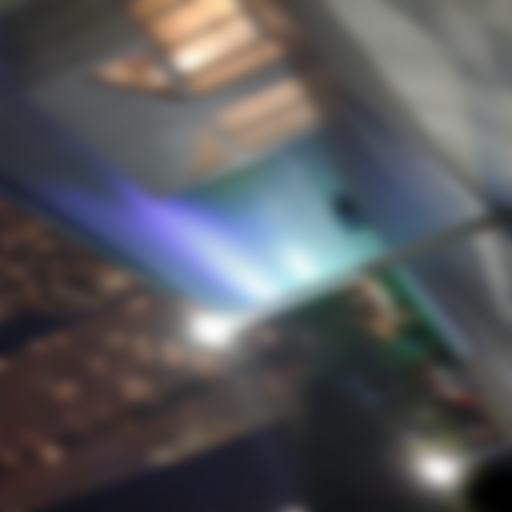
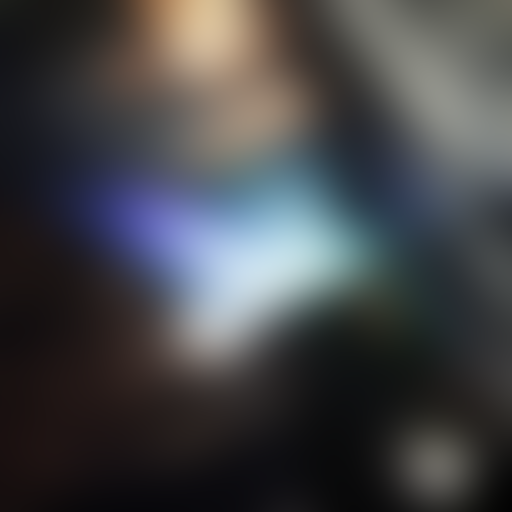
Another new XY palette

diff --git a/src/partner_dance.h b/src/partner_dance.h
@@ -37,31 +37,30 @@ private:
     static const unsigned particlesPerDancer = 30;
     static const unsigned numDancers = 2;
     static const unsigned numParticles = numDancers * particlesPerDancer;
-    static const float stepSize = 1.0 / 200;
+    static const float stepSize = 1.0 / 300;
 
     static const float colorRate = 0.8;
-    static const float noiseRate = 0.1;
-    static const float radius = 0.5;
-    static const float radiusNoiseAmount = 0.2;
-    static const float radiusNoiseRate = 3.0;
-    static const float intensityScale = 60.0;
+    static const float noiseRate = 0.4;
+    static const float radius = 1.2;
+    static const float radiusScale = 0.3;
+    static const float intensityScale = 20.0;
     static const float maxIntensity = 0.4;
-    static const float targetRadius = 0.3;
+    static const float minIntensity = 0.001;
+    static const float targetRadius = 0.5;
     static const float interactionRadius = 0.4;
-    static const float jitterRate = 2.5;
-    static const float jitterStrength = 0.26;
-    static const float jitterScale = 1.2;
-    static const float initialVelocity = 0.02;
+    static const float jitterRate = 0.5;
+    static const float jitterStrength = 0.6;
+    static const float jitterScale = 0.7;
 
     struct ParticleDynamics {
         Vec2 position;
         Vec2 velocity;
-        Vec2 target;
     };
 
     std::vector<ParticleDynamics> dynamics;
     float timeDeltaRemainder;
     float noiseCycle;
+    Vec2 target;
 
     void resetParticle(ParticleDynamics &pd, PRNG &prng, unsigned dancer) const;
     void runStep(const FrameInfo &f);
@@ -78,7 +77,7 @@ inline PartnerDance::PartnerDance()
       timeDeltaRemainder(0)
 {
     // Sky at (0,0), lightness along +X, darkness along +Y. Fire encircles the void at (1,1)
-    palette.load("data/beach-palette.png"),
+    palette.load("data/foggy-bay-palette.png"),
 
     reseed(42);
 }
@@ -99,8 +98,6 @@ inline void PartnerDance::reseed(uint32_t seed)
     for (unsigned dancer = 0; dancer < numDancers; dancer++) {
         for (unsigned i = 0; i < particlesPerDancer; i++, pa++, pd++) {
 
-            pd->target = Vec2(0,0);
-
             resetParticle(*pd, prng, dancer);
 
             pa->color = dancer ? Vec3(1, 0, 0) : Vec3(0, 1, 0);
@@ -117,8 +114,16 @@ inline void PartnerDance::beginFrame(const FrameInfo &f)
     int steps = t / stepSize;
     timeDeltaRemainder = t - steps * stepSize;
 
+    // Update orbit angles
+    float angle1 = noiseCycle;
+    float angle2 = noiseCycle * 0.2f;
+    float angle3 = noiseCycle * 0.7f;
+
+    target[0] = targetRadius * sinf(angle1);
+    target[1] = targetRadius * cosf(angle1 + sin(angle2));
+
     // Update all particle radii
-    float r = radius + radiusNoiseAmount * fbm_noise2(noiseCycle * radiusNoiseRate, 15, 2);
+    float r = radius + radiusScale * sinf(angle3);
     for (unsigned i = 0; i < appearance.size(); i++) {
         appearance[i].radius = r;
     }
@@ -137,6 +142,8 @@ inline void PartnerDance::beginFrame(const FrameInfo &f)
 
 inline void PartnerDance::debug(const DebugInfo& d)
 {
+    fprintf(stderr, "\t[partner-dance] numParticles = %d\n", numParticles);
+    fprintf(stderr, "\t[partner-dance] radius = %f\n", appearance[0].radius);
     fprintf(stderr, "\t[partner-dance] noiseCycle = %f\n", noiseCycle);
     fprintf(stderr, "\t[partner-dance] damping = %f\n", damping);
 }
@@ -155,7 +162,7 @@ inline void PartnerDance::runStep(const FrameInfo &f)
             prng.remix(pd->position[0] * 1e8);
             prng.remix(pd->position[1] * 1e8);
 
-            Vec2 disparity = pd->target - pd->position;
+            Vec2 disparity = target - pd->position;
             Vec2 normal = Vec2(disparity[1], -disparity[0]);
             Vec2 v = pd->velocity;
 
@@ -194,16 +201,13 @@ inline void PartnerDance::runStep(const FrameInfo &f)
                 v += interactionRate * k * normal;
             }
 
-            pd->target[0] = targetRadius * fbm_noise2(noiseCycle, 0, 4);
-            pd->target[1] = targetRadius * fbm_noise2(noiseCycle, 1, 4);
-
             pd->velocity = v;
             pd->position += v;
 
             pa->point = Vec3(pd->position[0], 0, pd->position[1]);
             pa->intensity = std::min(float(maxIntensity), intensityScale * len(v));
 
-            if (pa->intensity < 1.0 / prng.uniform(40, 100)) {
+            if (pa->intensity < minIntensity) {
                 resetParticle(*pd, prng, dancer);
             }
         }
@@ -212,15 +216,15 @@ inline void PartnerDance::runStep(const FrameInfo &f)
 
 inline void PartnerDance::resetParticle(ParticleDynamics &pd, PRNG &prng, unsigned dancer) const
 {
-    pd.velocity = prng.circularVector() * initialVelocity;
-    pd.position = prng.circularVector() * 2.0 + (dancer ? Vec2(3, 0) : Vec2(-3, 0));
+    pd.velocity = Vec2(0, 0);
+    pd.position = prng.circularVector() * 10.0 + (dancer ? Vec2(5, 0) : Vec2(-5, 0));
 }
 
 inline void PartnerDance::shader(Vec3& rgb, const PixelInfo& p) const
 {
     Vec3 jitter = Vec3(
-        fbm_noise3(noiseCycle * jitterRate, p.point[0] * jitterScale, p.point[2] * jitterScale, 2) * jitterStrength,
-        fbm_noise3(noiseCycle * jitterRate, p.point[0] * jitterScale, p.point[2] * jitterScale, 2) * jitterStrength,
+        fbm_noise3(noiseCycle * jitterRate, p.point[0] * jitterScale, p.point[2] * jitterScale, 4) * jitterStrength,
+        fbm_noise3(noiseCycle * jitterRate, p.point[0] * jitterScale, p.point[2] * jitterScale, 4) * jitterStrength,
         0);
 
     // Use 'color' to encode contributions from both partners

diff --git a/src/order_particles.h b/src/order_particles.h
@@ -35,7 +35,7 @@ private:
     static const unsigned numParticles = 70;
     static const float relativeSize = 0.42;
     static const float intensity = 0.16;
-    static const float brightness = 1.55;
+    static const float brightness = 1.35;
     static const float stepSize = 1.0 / 300;
     static const float seedRadius = 3.0;
     static const float interactionSize = 0.56;

diff --git a/src/narrator.cpp b/src/narrator.cpp
@@ -10,8 +10,7 @@
 
 Narrator::Narrator()
 {
-    tap.setEffect(&mixer);
-    runner.setEffect(&tap);
+    runner.setEffect(&mixer);
 }
 
 void Narrator::run()

diff --git a/src/narrator.h b/src/narrator.h
@@ -35,7 +35,6 @@ public:
     void run();
 
     // VisualMemory vismem;
-    EffectTap tap;
     NEffectRunner runner;
     EffectMixer mixer;
 
